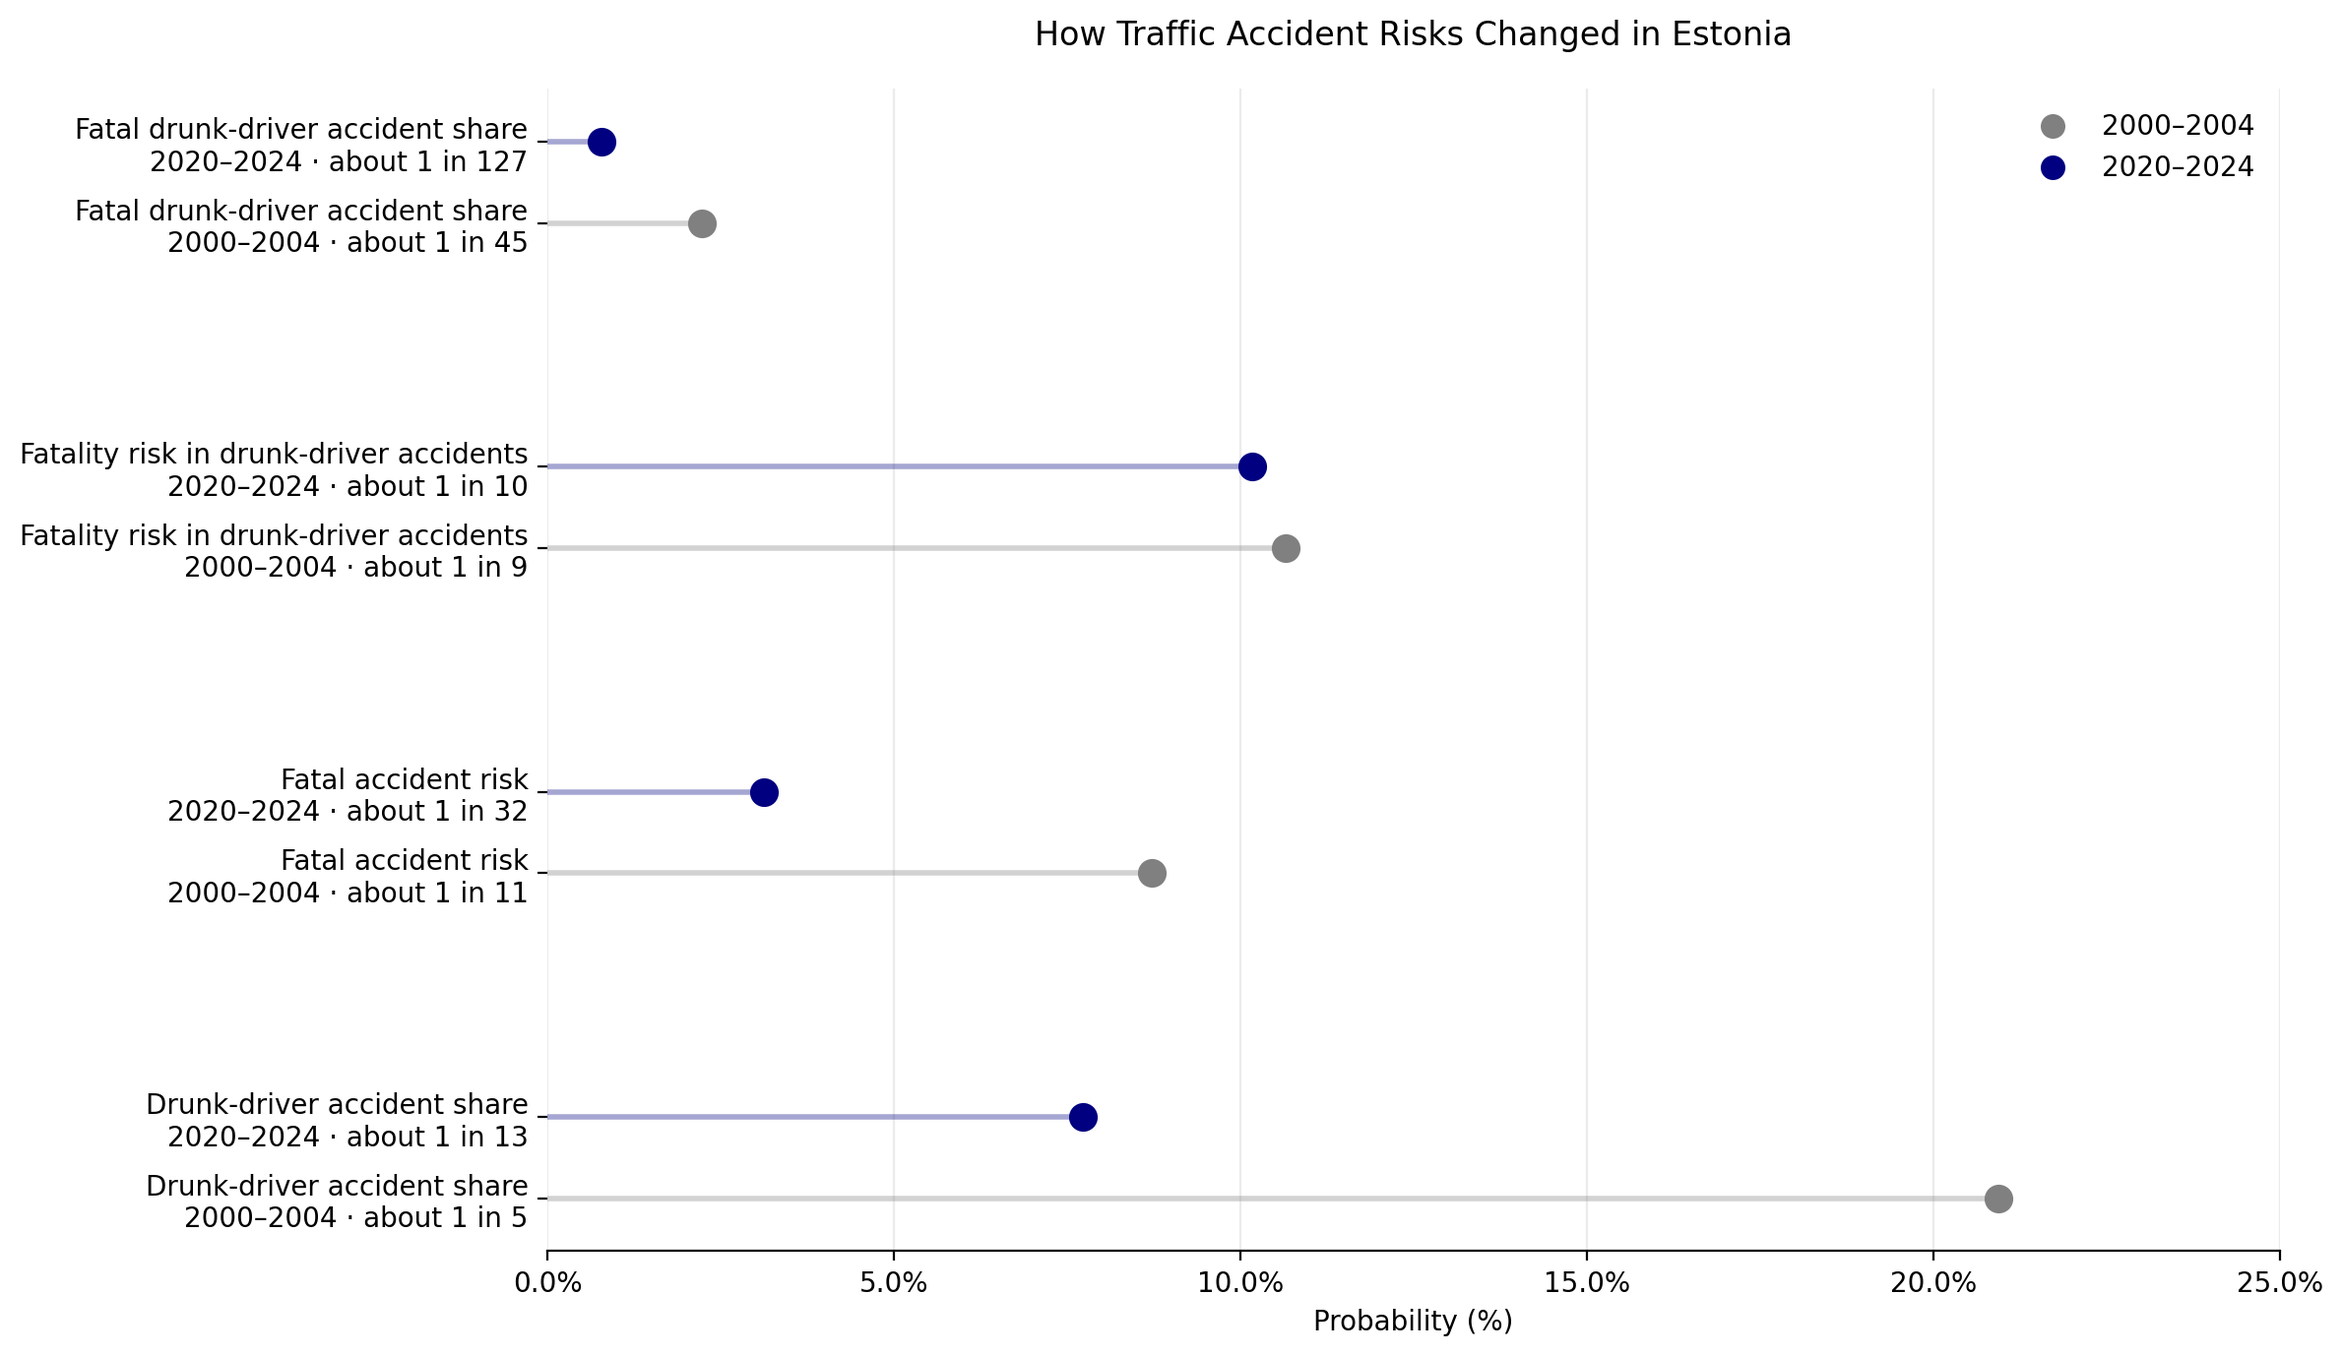
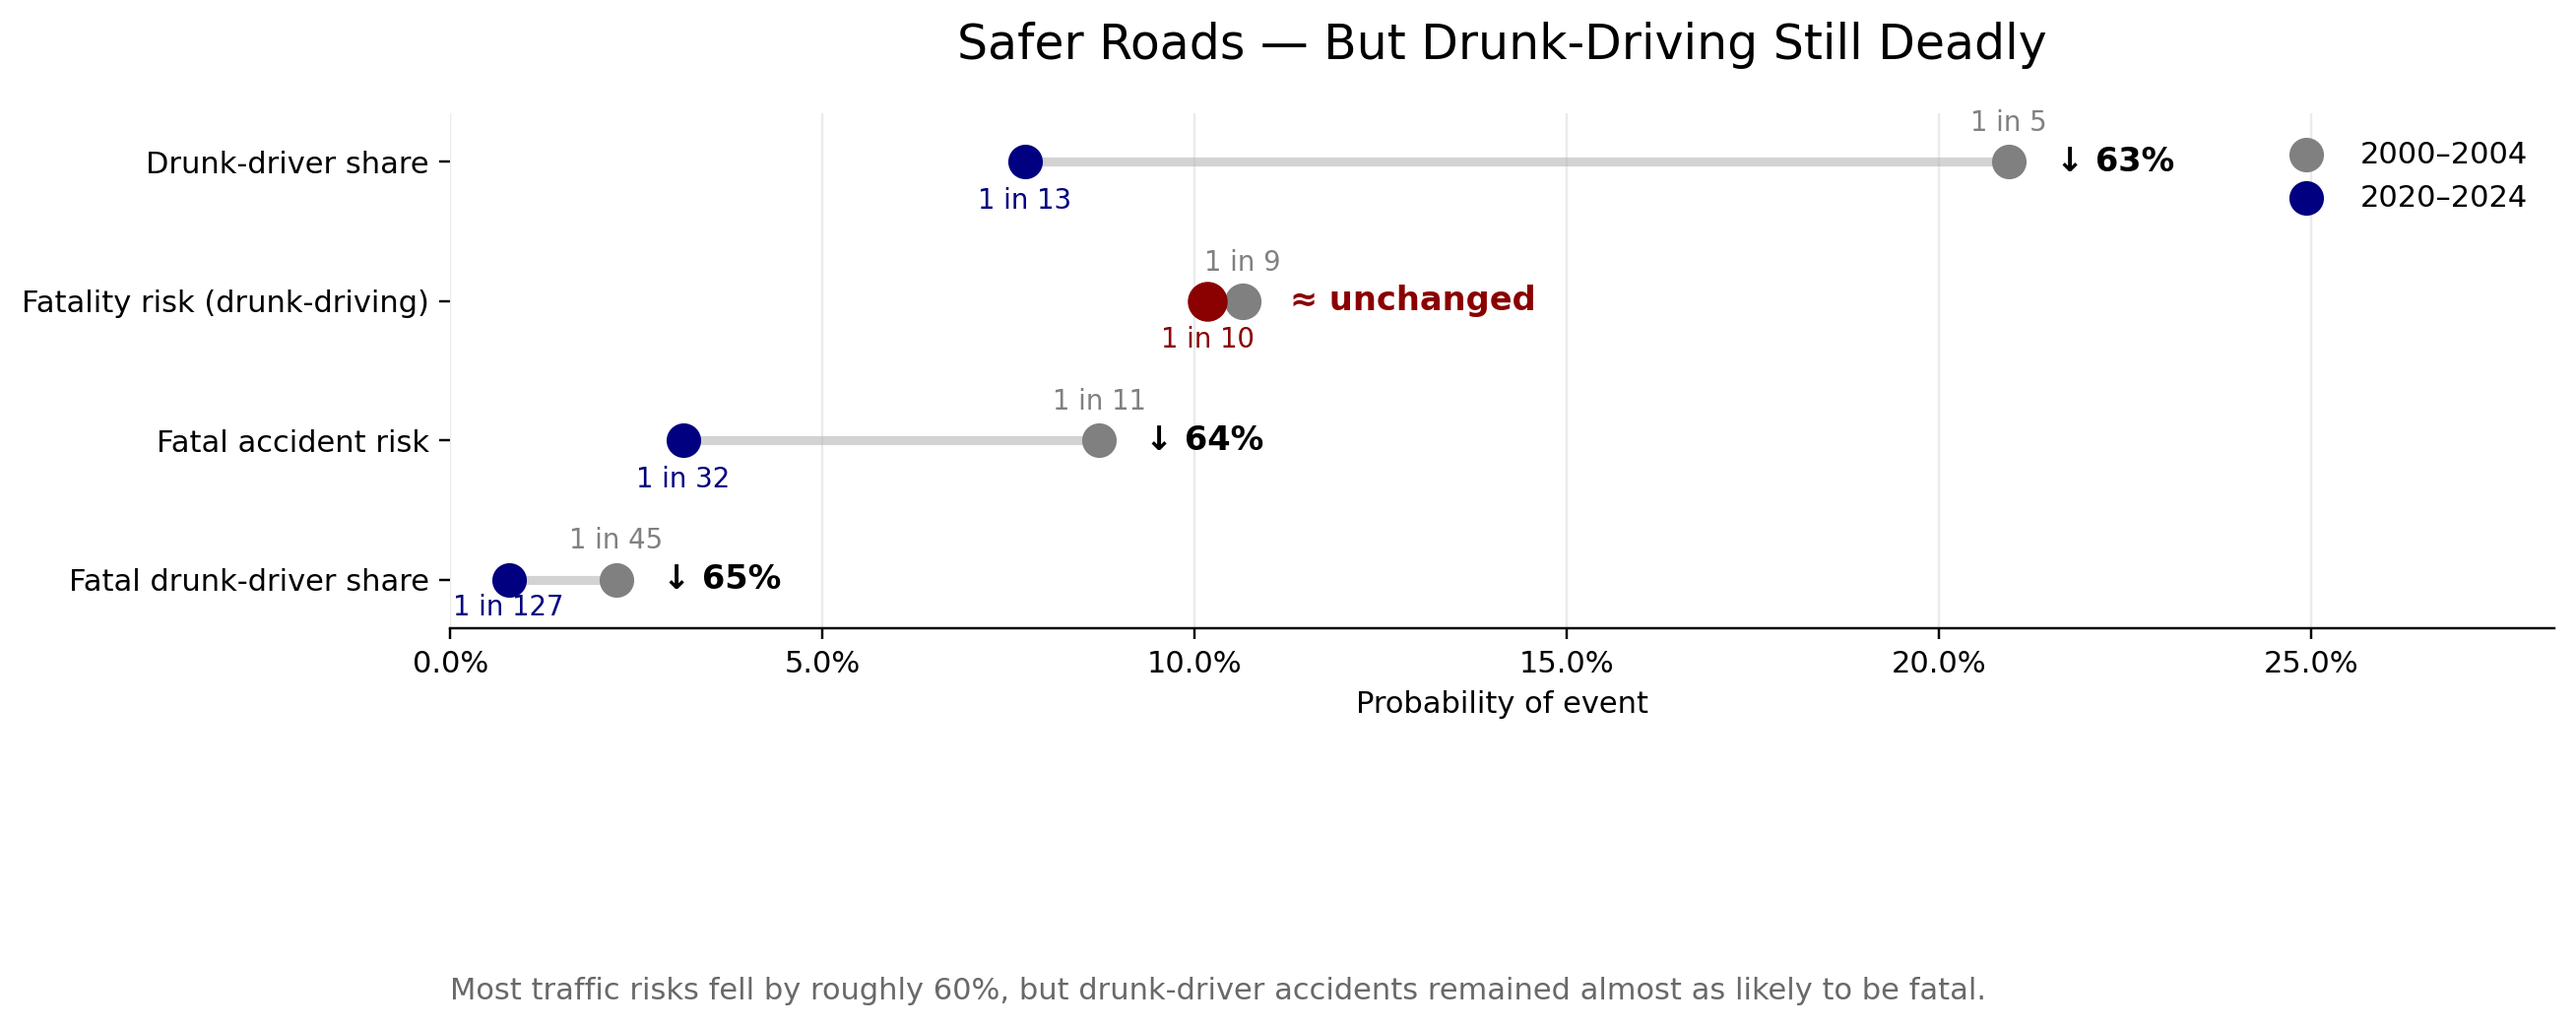
A probability scale of traffic accident risks in Estonia showing how most risks fell ~60% — except the fatality risk in drunk-driving accidents.

diff --git a/src/plot.py b/src/plot.py
@@ -1,5 +1,4 @@
 from pathlib import Path
-from matplotlib.lines import Line2D
 
 import matplotlib.pyplot as plt
 import matplotlib.ticker as mtick
@@ -11,70 +10,146 @@ PROJECT_ROOT = Path(__file__).resolve().parents[1]
 INPUT_PATH = PROJECT_ROOT / "data" / "processed" / "probability_events.csv"
 OUTPUT_PATH = PROJECT_ROOT / "outputs" / "probability_scale.png"
 
+KEY_EVENT = "Fatality risk in drunk-driver accidents"
+
+
+def one_in_n(probability: float) -> str:
+    return f"1 in {round(1 / probability)}"
+
+
+def format_change(change: float) -> str:
+    if abs(change) < 0.10:
+        return "≈ unchanged"
+    if change < 0:
+        return f"↓ {abs(change):.0%}"
+    return f"↑ {change:.0%}"
+
 
 def main() -> None:
     df = pd.read_csv(INPUT_PATH)
 
-    order = [
-        "Drunk-driver accident share",
-        "Fatal accident risk",
-        "Fatality risk in drunk-driver accidents",
-        "Fatal drunk-driver accident share",
-    ]
+    order = (
+        df.groupby("event")["probability"]
+        .mean()
+        .sort_values(ascending=True)
+        .index
+    )
 
-    df["event"] = pd.Categorical(df["event"], categories=order, ordered=True)
-    df = df.sort_values(["event", "period"]).reset_index(drop=True)
+    wide = df.pivot(
+        index="event",
+        columns="period",
+        values="probability",
+    ).loc[order]
+
+    changes = (wide["2020–2024"] - wide["2000–2004"]) / wide["2000–2004"]
 
     fig, ax = plt.subplots(figsize=(12, 7))
+    x_max = wide.max().max()
 
-    y_positions = []
-    y_labels = []
+    y_positions = range(len(order))
 
-    period_colors = {
-        "2000–2004": "gray",
-        "2020–2024": "navy",
-    }
+    for y, event in zip(y_positions, order):
+        old = wide.loc[event, "2000–2004"]
+        new = wide.loc[event, "2020–2024"]
+        change = changes.loc[event]
 
-    for group_index, event_name in enumerate(order):
-        group = df[df["event"] == event_name]
-        base_y = group_index * 4
+        is_key_event = event == KEY_EVENT
+        line_color = "darkred" if is_key_event else "lightgray"
+        new_color = "darkred" if is_key_event else "navy"
 
-        for offset, (_, row) in enumerate(group.iterrows()):
-            y = base_y + offset
-            y_positions.append(y)
+        ax.plot(
+            [old, new],
+            [y, y],
+            color=line_color,
+            linewidth=3.5 if is_key_event else 3,
+            alpha=0.45 if is_key_event else 1,
+            zorder=1,
+        )
 
-            one_in_n = round(1 / row["probability"])
-            y_labels.append(
-                f"{event_name}\n{row['period']} · about 1 in {one_in_n}"
-            )
+        ax.scatter(
+            old,
+            y,
+            s=125 if is_key_event else 110,
+            color="gray",
+            label="2000–2004" if y == 0 else "",
+            zorder=3,
+        )
 
-            color = period_colors.get(row["period"], "black")
+        ax.scatter(
+            new,
+            y,
+            s=150 if is_key_event else 110,
+            color=new_color,
+            label="2020–2024" if y == 0 else "",
+            zorder=4,
+        )
 
-            ax.hlines(
-                y=y,
-                xmin=0,
-                xmax=row["probability"],
-                linewidth=2,
-                alpha=0.35,
-                color=color,
-            )
+        ax.text(
+            max(old, new) + (x_max * 0.03),
+            y,
+            format_change(change),
+            va="center",
+            fontsize=11,
+            fontweight="bold",
+            color="darkred" if is_key_event else "black",
+        )
 
-            ax.scatter(
-                row["probability"],
-                y,
-                s=90,
-                zorder=3,
-                color=color,
-            )
+        ax.text(
+            old,
+            y + 0.18,
+            one_in_n(old),
+            ha="center",
+            va="bottom",
+            fontsize=9,
+            color="gray",
+        )
 
-    ax.set_xlim(0, 0.25)
+        if y == 0:
+            new_y_offset = -0.10
+        else:
+            new_y_offset = -0.18
+
+        ax.text(
+            new,
+            y + new_y_offset,
+            one_in_n(new),
+            ha="center",
+            va="top",
+            fontsize=9,
+            color=new_color,
+        )
+
+    pretty_labels = [
+        label.replace("accident share", "share").replace(
+            "Fatality risk in drunk-driver accidents",
+            "Fatality risk (drunk-driving)",
+        )
+        for label in order
+    ]
+
+    ax.set_yticks(list(y_positions))
+    ax.set_yticklabels(pretty_labels)
+
+    ax.set_xlim(0, x_max * 1.35)
+    ax.set_ylim(-0.35, len(order) - 0.65)
+
     ax.xaxis.set_major_formatter(mtick.PercentFormatter(1.0))
 
-    ax.set_yticks(y_positions)
-    ax.set_yticklabels(y_labels)
+    ax.set_xlabel("Probability of event")
+    ax.set_title(
+        "Safer Roads — But Drunk-Driving Still Deadly",
+        pad=18,
+        fontsize=16,
+    )
 
-    ax.set_xlabel("Probability (%)")
-    ax.set_title("How Traffic Accident Risks Changed in Estonia", pad=16)
+    ax.text(
+        0,
+        -0.72,
+        "Most traffic risks fell by roughly 60%, but drunk-driver accidents remained almost as likely to be fatal.",
+        fontsize=10,
+        color="dimgray",
+        transform=ax.transAxes,
+    )
 
     ax.grid(axis="x", alpha=0.25)
 
@@ -82,34 +157,11 @@ def main() -> None:
     ax.spines["right"].set_visible(False)
     ax.spines["left"].set_visible(False)
 
-    legend_elements = [
-        Line2D(
-            [0],
-            [0],
-            marker="o",
-            linestyle="",
-            markerfacecolor="gray",
-            color="gray",
-            label="2000–2004",
-            markersize=8,
-        ),
-        Line2D(
-            [0],
-            [0],
-            marker="o",
-            linestyle="",
-            markerfacecolor="navy",
-            color="navy",
-            label="2020–2024",
-            markersize=8,
-        ),
-    ]
-
-    ax.legend(handles=legend_elements, loc="upper right", frameon=False)
+    ax.legend(loc="upper right", frameon=False)
 
     plt.tight_layout()
     OUTPUT_PATH.parent.mkdir(parents=True, exist_ok=True)
-    plt.savefig(OUTPUT_PATH, dpi=200, bbox_inches="tight")
+    plt.savefig(OUTPUT_PATH, dpi=220, bbox_inches="tight")
     plt.close()
 
     print(f"Saved plot to {OUTPUT_PATH}")

diff --git a/src/probabilities.py b/src/probabilities.py
@@ -120,6 +120,22 @@ def main() -> None:
     df = load_data()
     probabilities = calculate_probabilities(df)
 
+    pivot = probabilities.pivot(
+        index="event",
+        columns="period",
+        values="probability",
+    )
+
+    pivot["relative_change"] = (
+        pivot["2020–2024"] - pivot["2000–2004"]
+    ) / pivot["2000–2004"]
+
+    probabilities = probabilities.merge(
+        pivot["relative_change"],
+        left_on="event",
+        right_index=True,
+    )
+
     print(probabilities)
 
     probabilities.to_csv(OUTPUT_PATH, index=False)
